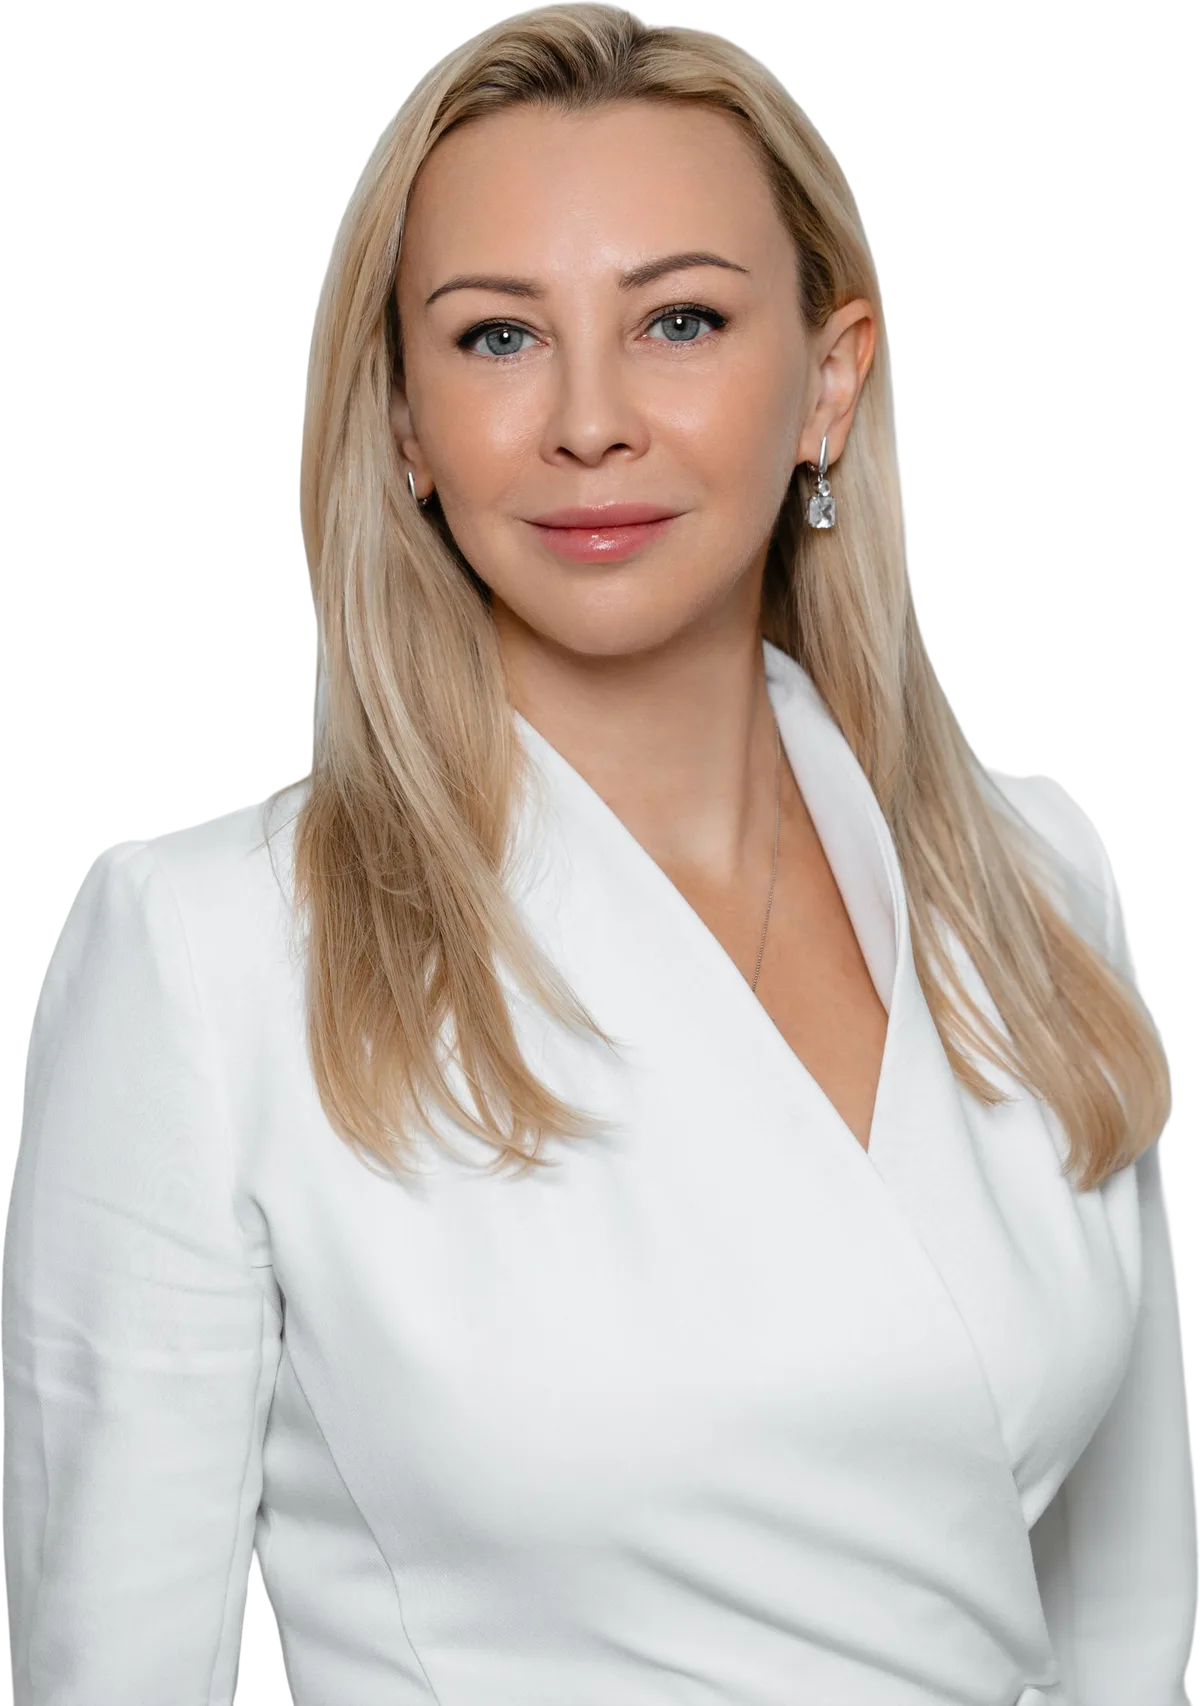
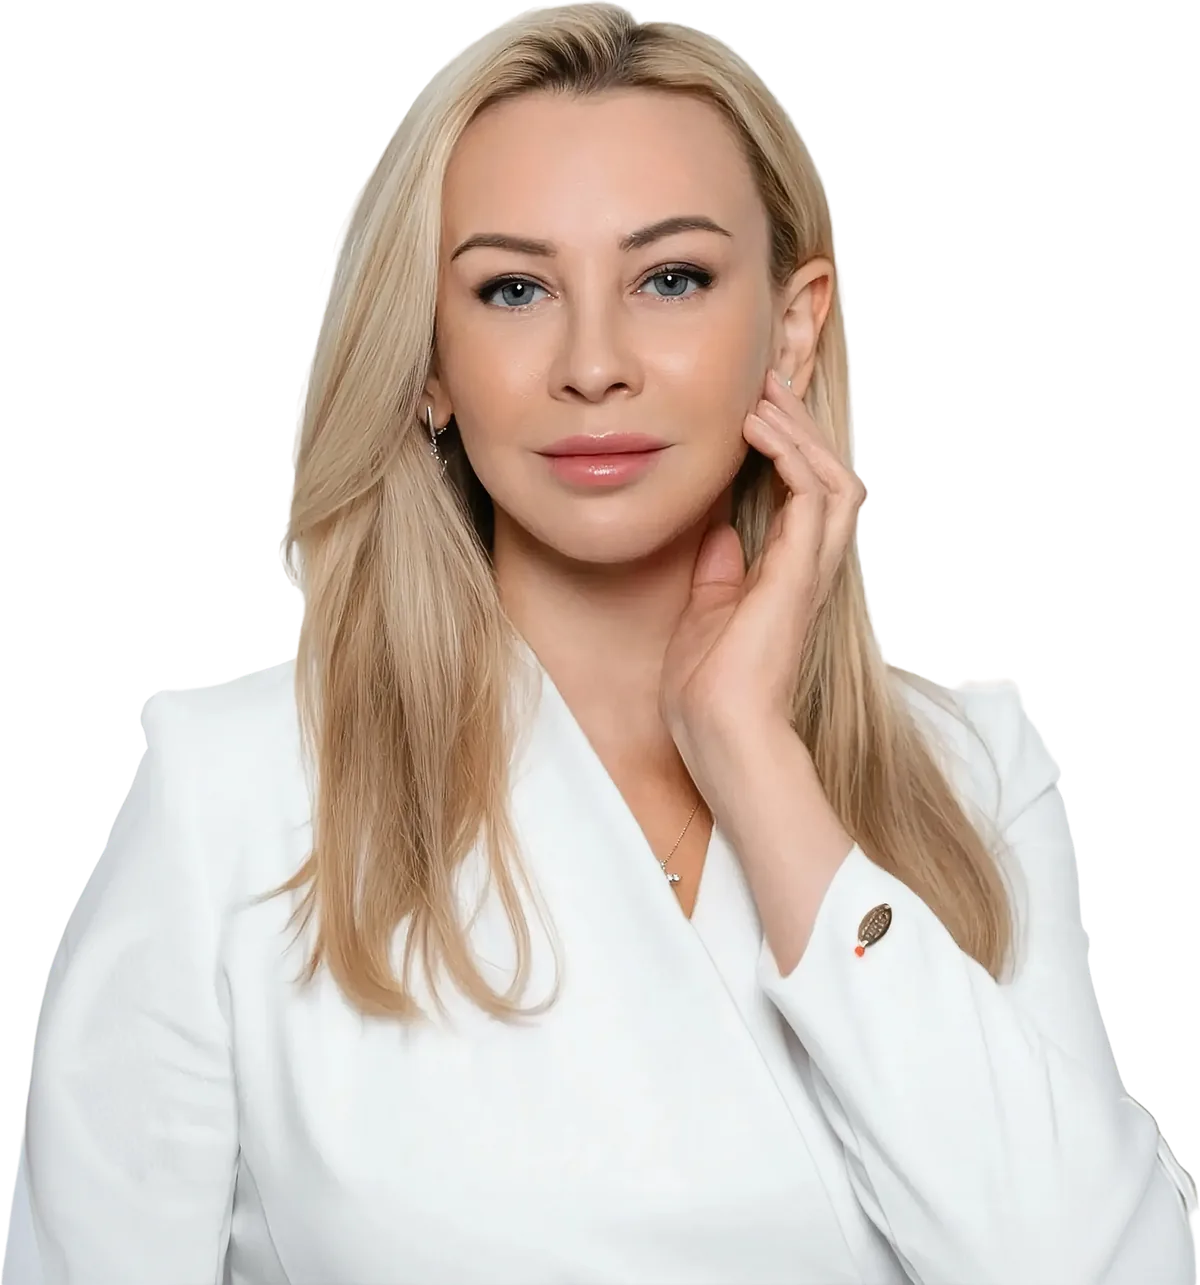
Новое фото на первом экране
Заказчик прислал портрет с прозрачным фоном. Прозрачные поля обрезаны
по границам фигуры, собраны два webp прежних размеров (44 и 79 КБ против
58 и 113): PNG в репозиторий не кладём — на нём мы уже теряли LCP.

Кадр портретный (0.93 против прежних 0.70 у ростового), поэтому правилась
и вёрстка сцены. Десктоп: высота фото min(80%, 700px) вместо min(92%, 840px) —
на прежней фото расползалось на 785px и закрывало оба слова имени. Телефон:
ширина до min(96%, 460px), нахлёст текста на фото убран, маска растворения
поднята до 66% — нахлёст был рассчитан на ростовой кадр, а портрет кончается
пиджаком, и лид ложился прямо на него.

Claude-Session: https://claude.ai/code/session_0155ypw9XNo2kt6C7rMxqVtk

diff --git a/CLAUDE.md b/CLAUDE.md
@@ -225,6 +225,20 @@ Telegram Desktop: папку с `result.json` и `photos/` положить в
 
 Вести здесь, поднимая новые записи наверх. Формат: дата — что сделано/решено.
 
+- **2026-09-09** — **Новое фото на первом экране** (PNG с прозрачностью
+  от заказчика, 3974×2973). Прозрачные поля обрезаны по bbox альфы, из
+  вырезки собраны те же два webp — `hero-780` и `hero-1200` (44 и 79 КБ
+  против прежних 58 и 113). Кадр **портретный, 0.93 против прежних 0.70**
+  (было ростовое фото), поэтому одной заменой файла не обошлось:
+  на десктопе высота фото снижена с `min(92%, 840px)` до `min(80%, 700px)` —
+  при прежней высоте ширина выходила 785px и фото накрывало собой оба слова
+  имени; на телефоне ширина поднята до `min(96%, 460px)`, **нахлёст текста
+  на фото убран** (`margin-top` был `-clamp(56px, 12svh, 110px)`, стал 0) и
+  маска растворения поднята с 72% до 66%. Нахлёст был рассчитан на ростовой
+  кадр, у которого низ растворялся задолго до текста; портрет кончается
+  пиджаком, и лид ложился прямо на него. Не забыть `width`/`height`
+  в разметке — они держат место до загрузки (1200×1285).
+
 - **2026-09-08** — **Правки Оксаны из Google-документа** (правлен 08.09) плюс
   серия просьб заказчика по скринам. Документ тот же
   (`1NSGfIGWJq8KWAYgBV6_rOjvBjZSfcQv8T-tPAoQDl6A`), она правит его поверх
